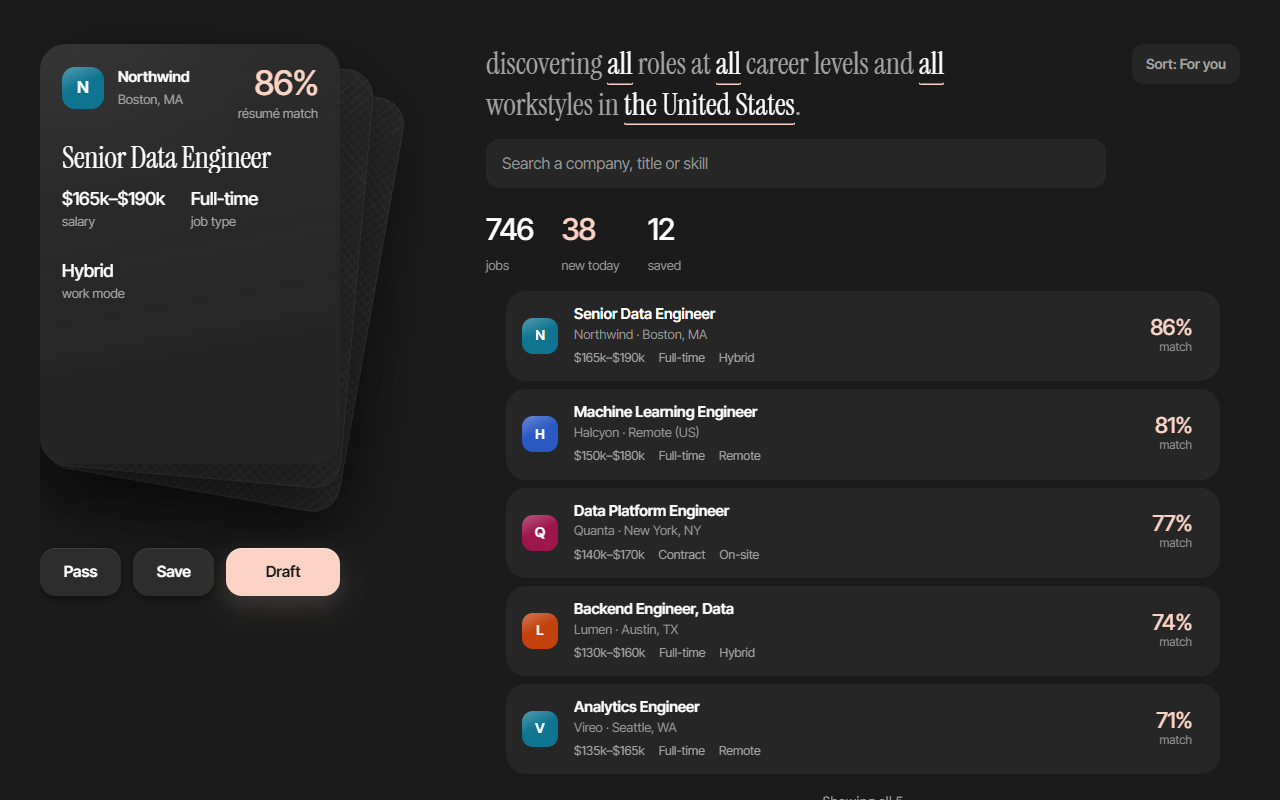
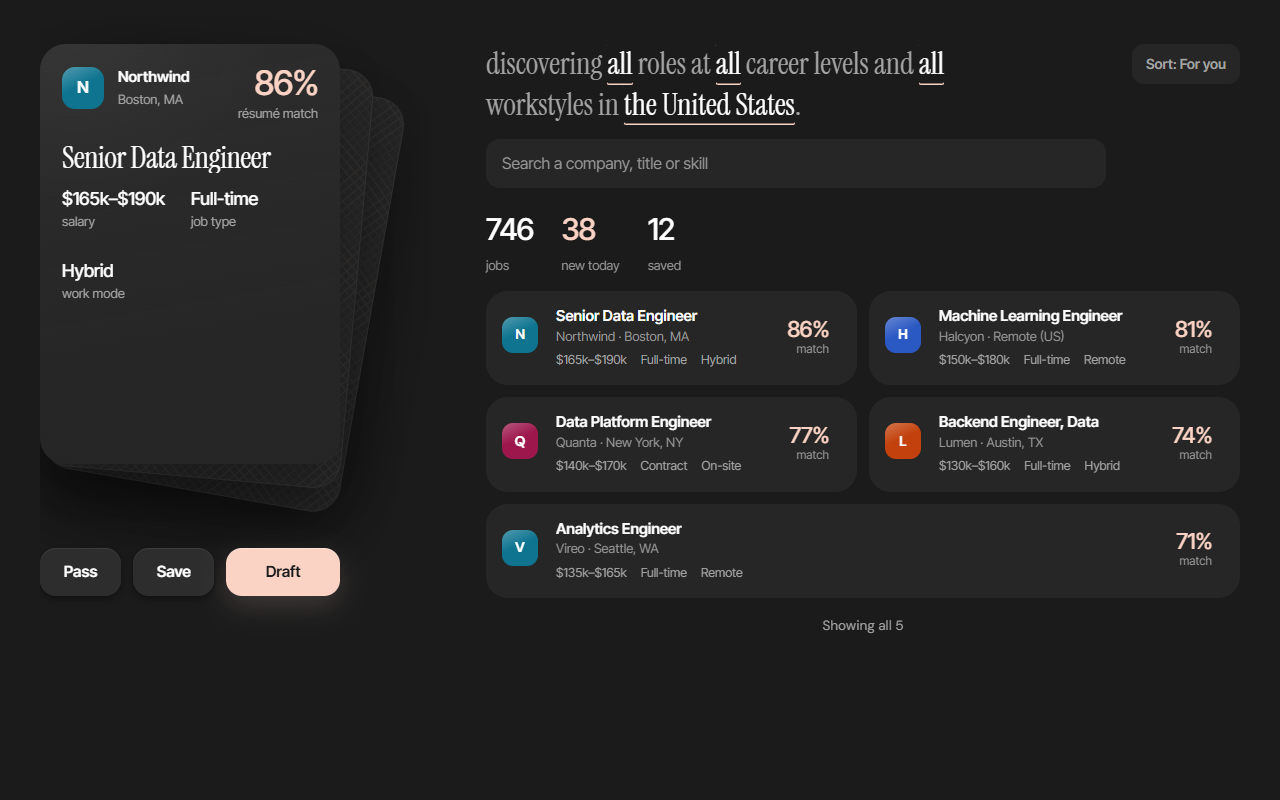
D152 (5) Home: postings are two columns of bubbles; old ATS square gone
D152 (5) Home: the postings are two columns of bubbles that make room for each other; the old ATS square is gone

home-sketch.html's .rows / .row / .bub, step 4 of D152.

- JobBubbleRows `columns` (2 by default): the postings in pairs, each pair one flex line. CSS only (JobBubble.css):
  a bubble flex 1 1 0; hovering the pair settles both at .75 and the hovered / focused one grows to 1.5 — its
  neighbour gives way, the line's height unchanged (every line nowrap + ellipsis, as the sketch's are) — over .32s,
  reduced motion none. The sketch's bubble: corner 22, padding 16, a 42 px logo, 12 px gaps, pairs 12 apart. One column
  on a phone, and while a posting is open beside the list (JobsPanel passes columns={beside ? 1 : 2}).
- The board's page column is Home's right column: .jb-board drops its own 1240 / 20 px gutters.
- ⛔ The rail's green "86 ats" square is removed from every bubble (D152 (5): "the old green ATS box leaves the
  bubbles") — the match on the right is the one number; the rail is Save · Draft (the sketch's ☆ · /d). An unscored
  row's way into its report is the opened posting's match box (JobDetailPanel → selectedJobMeta.onAts). BarMark, the
  band label and the bubble's onAts are gone with it.

Measured in Chrome (fidelityShots --styles home, the first pair, its first bubble focused): 1280 — 371 | 371 at
rest, 439 | 303 focused, both 94 px tall before and after; the options visible; no .jb__sq--ats anywhere; 390 — the
[…]

diff --git a/client/src/components/JobBubble.jsx b/client/src/components/JobBubble.jsx
@@ -19,7 +19,7 @@ import CompanyLogo from "./CompanyLogo.jsx";
 import CompanyViewModal from "./CompanyViewModal.jsx";
 import { jobDetailHref } from "../lib/jobUrl.js";
 import CompanyLink from "./CompanyLink.jsx";
-import { atsBandFor, atsBandLabel, ATS_NUMBER_SHOWN, ATS_NUMBER_NOTE } from "../../../shared/atsBands.js";
+import { ATS_NUMBER_SHOWN } from "../../../shared/atsBands.js";
 import { salaryLabel, workstyleOf } from "../../../shared/postingFacts.js";
 import { ghostLine } from "../../../shared/ghostScore.js";
 import { DraftMark } from "./DraftMark.jsx";
@@ -29,16 +29,6 @@ import "./JobBubble.css";
 
 // D71: the shared label.
 const salary = salaryLabel;
-
-function BarMark() {
-  return (
-    <svg width="20" height="16" viewBox="0 0 20 16" aria-hidden="true" focusable="false">
-      <rect x="1" y="9" width="4" height="6" rx="1.2" fill="currentColor" opacity=".45" />
-      <rect x="8" y="5" width="4" height="10" rx="1.2" fill="currentColor" opacity=".7" />
-      <rect x="15" y="1" width="4" height="14" rx="1.2" fill="currentColor" />
-    </svg>
-  );
-}
 
 function StarMark({ filled }) {
   return (
@@ -50,14 +40,12 @@ function StarMark({ filled }) {
 }
 
 export default function JobBubble({ job, score = null, selected = false, saved = false, drafted = false, drafting = false, resumeReady = false,
-                                    onOpen, onAts, onSave, onDraft, onViewDraft = null, draftBlocked = null,
+                                    onOpen, onSave, onDraft, onViewDraft = null, draftBlocked = null,
                                     onExplainDraft = null, draftSlots = null }) {
   const [companyView, setCompanyView] = useState(false);
   const draft = draftButtonState({ drafted, drafting, block: draftBlocked, canView: !!onViewDraft, slots: draftSlots });
   const id = job.jobId || job.id;
   const applyHref = job.applyUrl || job.url;
-  const band = atsBandFor(score);
-  const bandLabel = atsBandLabel(band).label;
   const showNumber = ATS_NUMBER_SHOWN && Number.isFinite(score);
   // ⭐ D137: "Likely not hiring" takes the status slot (no extra label, A109); its reasons are the meta line's title.
   const status = job.heldOutsideUs ? "Outside the US" : job.isActive === false ? "No longer listed" : job.ghost?.level >= 2 ? "Likely not hiring" : null;
@@ -107,15 +95,10 @@ export default function JobBubble({ job, score = null, selected = false, saved =
         {showNumber ? <><b>{score}%</b><span>match</span></> : null}
       </div>
 
-      {/* The rail (ATS · Save · Draft) stays — revealed on hover / focus, always on touch (D1) — so the row's quick
-          decisions keep working; at rest the row is the sketch's. */}
+      {/* The rail (Save · Draft) — revealed on hover / focus, always on touch (D1) — so the row's quick decisions keep
+          working; at rest the row is the sketch's. ⛔ D152 (5): the old "86 ats" square is gone from every bubble — the
+          match on the right says the same number; the match itself opens in the posting (D152 (8)). */}
       <div className="jb__rail">
-        <button type="button" className="jb__sq jb__sq--ats" data-score={showNumber ? score : undefined}
-          onClick={stop(onAts)}
-          aria-label={showNumber ? `ATS report — ${score}, ${bandLabel}. ${ATS_NUMBER_NOTE}` : `ATS report — ${bandLabel}`}
-          title={showNumber ? `ATS match ${score} · ${bandLabel} — ${ATS_NUMBER_NOTE}. Open the report.` : `${bandLabel} — open the ATS report`}>
-          {showNumber ? (<><span className="jb__ats-n">{score}</span><span className="jb__ats-cap">ats</span></>) : <BarMark />}
-        </button>
         <button type="button" className="jb__sq jb__sq--save" aria-pressed={saved} onClick={stop(saved ? null : onSave)}
           aria-label={saved ? "Saved" : "Save"} title={saved ? "Saved" : "Save"}>
           <StarMark filled={saved} />
@@ -180,6 +163,20 @@ export function JobBoardColumns({ beside = false, sideRef = null, children }) {
   );
 }
 
-export function JobBubbleRows({ jobs, children }) {
-  return <div className="jb-rows" data-columns={1}>{jobs.map(children)}</div>;
+// ⭐ D152 (5) (owner 11-04: "two bubbles, two columns of job postings that resize to accommodate the others dynamically when
+// hovering above them, and it shows the options"): home-sketch.html's `.rows` / `.row` — the postings in PAIRS, each pair
+// one line; a hovered or focused bubble grows (1.5) and its neighbour gives way (.75), the line's height unchanged; its
+// options (☆ Save · /d Draft) open on hover / focus, always on touch. One column while a posting is open beside the list,
+// and on a phone (JobBubble.css). The pairs are laid out by CSS flex alone — nothing measured.
+export function JobBubbleRows({ jobs, children, columns = 2 }) {
+  if (columns !== 2) return <div className="jb-rows" data-columns={1}>{jobs.map(children)}</div>;
+  const pairs = [];
+  for (let i = 0; i < jobs.length; i += 2) pairs.push(jobs.slice(i, i + 2));
+  return (
+    <div className="jb-rows" data-columns={2}>
+      {pairs.map((pair, p) => (
+        <div className="jb-pair" key={p} data-jb-pair="">{pair.map((job, k) => children(job, p * 2 + k))}</div>
+      ))}
+    </div>
+  );
 }

diff --git a/test/jobBubbleD1.test.js b/test/jobBubbleD1.test.js
@@ -50,15 +50,16 @@ test("⛔ NO BAND AND NO NUMBER on the card body; the ATS button carries the num
   assert.doesNotMatch(body, /score|band/i, "fit shown in the card's text");
   assert.match(jsx, /\{showNumber \? <><b>\{score\}%<\/b><span>match<\/span><\/> : null\}/, "no score is no number — never a zero");
   assert.match(jsx, /const showNumber = ATS_NUMBER_SHOWN && Number\.isFinite\(score\);/);
-  // No score is the bar mark — never a zero.
-  assert.match(jsx, /\{showNumber \? \(<><span className="jb__ats-n">\{score\}<\/span><span className="jb__ats-cap">ats<\/span><\/>\) : <BarMark \/>\}/);
+  // ⭐ D152 (5), changed on purpose: no ATS button on the card any more — the match on the right is the one number.
+  assert.doesNotMatch(jsx, /jb__sq--ats|jb__ats-n|BarMark/);
   const bands = read("shared/atsBands.js");
   // ⭐ D50 (owner, 10-07): ON, provisional — the box's tooltip carries the note.
   assert.match(bands, /export const ATS_NUMBER_SHOWN = true;/, "D50 turned the number on");
-  assert.match(jsx, /\$\{ATS_NUMBER_NOTE\}\. Open the report\./);
+  // (the number's note now travels with the report itself — shared/atsReportElement.js, d50AtsNumberShown)
 });
 
-test("the rail: three 52px squares, zero width until hover / focus-within, one motion; always shown on touch", () => {
+// ⭐ D152 (5), changed on purpose: TWO squares (Save · Draft) — the ATS square left the bubbles (home-sketch.html's ☆ · /d).
+test("the rail: two 52px squares, zero width until hover / focus-within, one motion; always shown on touch", () => {
   assert.match(css, /\.jb__sq \{\n  width: 52px; height: 52px;/);
   assert.match(css, /max-width: 0; opacity: 0; margin-left: 0;/);
   // T25: visibility rides the reveal, so the collapsed squares are out of the pointer's and the keyboard's reach.
@@ -67,7 +68,7 @@ test("the rail: three 52px squares, zero width until hover / focus-within, one m
   assert.match(css, /@media \(hover: none\) \{\n  \.jb__rail \{ max-width: 196px; opacity: 1; margin-left: 4px; visibility: visible; \}/);
   // ⛔ GENERATE and APPLY are off the card.
   const rail = jsx.slice(at(jsx, '<div className="jb__rail">', 0, "rail"), at(jsx, "{companyView &&", 0, "end"));
-  assert.equal((rail.match(/<button /g) || []).length, 3);
+  assert.equal((rail.match(/<button /g) || []).length, 2);
   assert.doesNotMatch(rail, /Generate|onGenerate|onVisit|↗/);
   // D6: the mark is DraftMark.jsx — the one implementation the top bar's Draft tab renders too.
   assert.match(rail, />\s*<DraftMark \/>\s*<\/button>/, "Draft is the mark");
@@ -95,7 +96,8 @@ test("⛔ the logo face is SELF-HOSTED — no third-party font request", () => {
 });
 
 test("the board renders bubbles in rows; the Database panel keeps JobCard", () => {
-  assert.match(panel, /<JobBubbleRows jobs=\{jobs\}>/);
+  // ⭐ D152 (5), changed on purpose: two columns (pairs), one beside an open posting.
+  assert.match(panel, /<JobBubbleRows jobs=\{jobs\} columns=\{beside \? 1 : 2\}>/);
   assert.doesNotMatch(panel, /<JobCard\b/);
   assert.match(read("client/src/panels/DatabasePanel.jsx"), /<JobCard/);
   // D149 (11-03): one column — see the first test.

diff --git a/client/src/components/JobBubble.css b/client/src/components/JobBubble.css
@@ -101,9 +101,7 @@ a.jb__company:hover, a.jb__company:focus-visible { text-decoration: underline; }
 .jb__sq:disabled { cursor: default; }
 
 /* ATS — the score when the number is shown (A75/A76), green on its quiet ground; otherwise the bar mark. */
-.jb__sq--ats[data-score] { background: var(--c-success-quiet); color: var(--c-success); }
-.jb__ats-n   { font-size: 17px; font-weight: 800; line-height: 1; }
-.jb__ats-cap { font-size: 9px; font-weight: 700; letter-spacing: .06em; text-transform: lowercase; }
+/* ⛔ D152 (5): the green "ats" square is gone from the rail — the match on the right is the one number. */
 
 .jb__sq--save[aria-pressed="true"] { color: var(--c-accent-ink); }
 
@@ -175,4 +173,28 @@ a.jb__company:hover, a.jb__company:focus-visible { text-decoration: underline; }
   .jb__text { flex: 1 1 0; }
   /* The always-shown rail (touch) on its own line under the row, at its right — never over the text. */
   .jb .jb__rail, .jb:hover .jb__rail, .jb:focus-within .jb__rail { max-width: none; flex-basis: 100%; justify-content: flex-end; margin-left: 0; }
+}
+
+/* ── ⭐ D152 (5) · HOME: TWO COLUMNS OF BUBBLES THAT MAKE ROOM FOR EACH OTHER — home-sketch.html's .rows / .row / .bub ─────
+ * The board is Home's right column now, so its page column is the column itself (no 1240 / 20px gutters of its own).
+ * Pairs 12px apart, each pair one flex line: a bubble flex 1 1 0; hovering the pair settles both at .75 and the hovered
+ * (or focused) one grows to 1.5 — its neighbour gives way, the line's height unchanged — over .32s (reduced motion:
+ * none). The sketch's bubble: the card, corner 22, padding 16, a 42 px logo column, 12px gaps. One column on a phone
+ * (the options always shown there, D1) and while a posting is open beside the list (JobsPanel passes columns 1). */
+.jb-board { max-width: none; padding: 0; }
+.jb-rows[data-columns="2"] { display: flex; flex-direction: column; gap: 12px; }
+.jb-pair { display: flex; gap: 12px; }
+.jb-pair .jb { flex: 1 1 0; min-width: 0; border-radius: 22px; padding: 16px; gap: 12px;
+  transition: flex-grow .32s cubic-bezier(.2, .9, .3, 1), background .2s; }
+.jb-pair:hover .jb { flex-grow: .75; }
+.jb-pair .jb:hover, .jb-pair .jb:focus-within { flex-grow: 1.5; background: var(--c-surface-tint); }
+.jb-pair .jb__logo { width: 42px; height: 42px; }
+/* Every line one line (the sketch's .bt b / span / i: nowrap, ellipsis), so giving way never changes the line's height. */
+.jb-pair .jb__title { white-space: nowrap; overflow: hidden; text-overflow: ellipsis; }
+.jb-pair .jb__meta { flex-wrap: nowrap; overflow: hidden; white-space: nowrap; }
+.jb-pair .jb__meta i { flex: none; }
+@media (prefers-reduced-motion: reduce) { .jb-pair .jb { transition: none; } }
+@media (max-width: 700px) {
+  .jb-pair { flex-direction: column; }
+  .jb-pair:hover .jb, .jb-pair .jb:hover, .jb-pair .jb:focus-within { flex-grow: 1; }
 }

diff --git a/test/d152Home.test.js b/test/d152Home.test.js
@@ -91,6 +91,28 @@ test("d152DockLeftWithLogo / d153DockPushes / d152DockSlidesFromLeftEdge (real C
     assert.equal(acts.width, card.width, `${size}: the buttons as wide as the card`);
   }
   assert.deepEqual([out.desktop.deck.card.width, out.desktop.deck.card.bottom - out.desktop.deck.card.top], [300, 420]);
+  // ⭐ D152 (5): two columns of bubbles that make room for each other; no old ATS square on any bubble.
+  for (const [size, d] of Object.entries(out)) {
+    assert.equal(d.pairs.atsSquare, false, `${size}: d152NoOldAtsBox`);
+    assert.equal(d.pairs.perPair, 2, `${size}: the postings in pairs`);
+    assert.equal(d.pairs.options, "visible", `${size}: d152HoverShowsOptions — a hovered / focused bubble shows its options`);
+    assert.deepEqual(d.pairs.focusH, d.pairs.restH, `${size}: giving way never changes the line's height`);
+  }
+  const P = out.desktop.pairs;
+  assert.equal(P.restW[0], P.restW[1], "d152TwoColumnResizingBubbles: equal at rest");
+  assert.ok(P.focusW[0] > P.restW[0] && P.focusW[1] < P.restW[1], `the focused bubble grows and its neighbour gives way (${P.focusW})`);
+  assert.ok(Math.abs(P.focusW[0] + P.focusW[1] - P.restW[0] - P.restW[1]) <= 1, "within the same line");
+  assert.equal(out.phone.pairs.restW[0], out.phone.pairs.focusW[0], "a phone stacks the pair — nothing to give way to");
+});
+
+test("d152 (5) · the bubbles' source: pairs from JobBubbleRows, one column beside an open posting, no ATS square", () => {
+  const BUB = read("client/src/components/JobBubble.jsx");
+  const PANEL = read("client/src/panels/JobsPanel.jsx");
+  const CSSB = read("client/src/components/JobBubble.css");
+  assert.match(BUB, /export function JobBubbleRows\(\{ jobs, children, columns = 2 \}\)/);
+  assert.doesNotMatch(BUB, /jb__sq--ats|onAts/, "the old ATS square and its handler are gone");
+  assert.match(PANEL, /<JobBubbleRows jobs=\{jobs\} columns=\{beside \? 1 : 2\}>/);
+  assert.match(CSSB, /\.jb-pair:hover \.jb \{ flex-grow: \.75; \}\n\.jb-pair \.jb:hover, \.jb-pair \.jb:focus-within \{ flex-grow: 1\.5;/);
 });
 
 test("d152 (2) · Home's card size and fan transform (pure)", async () => {

diff --git a/test/fidelityFullHouse.test.js b/test/fidelityFullHouse.test.js
@@ -37,9 +37,14 @@ test("fidelity · Full House + the posting (fullhouse-declutter.html): page, hea
     assert.deepEqual(d.counts.map(c => [c.size, c.weight]), Array(3).fill(["30px", "500"]));
     assert.equal(d.counts[1].color, ACCENT, `${size}: "new today" in the accent`);
     // The rows.
-    assert.deepEqual([d.row.bg, d.row.radius, d.row.border, d.row.shadow, d.row.padding], [CARD, "20px", "0px", "none", "14px 16px"],
-      `${size}: a row is the card, corner 20, no border, no shadow`);
-    assert.equal(d.row.gap, 8, `${size}: rows 8px apart`);
+    // ⭐ D152 (5), changed on purpose: where the list is two columns (a phone here — its posting is the screen, not beside
+    // the list) a row is Home's bubble, corner 22, padding 16; beside an open posting (the computer) the one column keeps
+    // the row's 20 / 14 16.
+    const bubble = size === "phone";
+    assert.deepEqual([d.row.bg, d.row.radius, d.row.border, d.row.shadow, d.row.padding],
+      [CARD, bubble ? "22px" : "20px", "0px", "none", bubble ? "16px" : "14px 16px"],
+      `${size}: a row is the card, no border, no shadow`);
+    assert.equal(d.row.gap, bubble ? 12 : 8, `${size}: rows 8px apart (Home's pairs 12, D152 (5))`);
     assert.match(d.row.outline, /solid rgb\(251, 211, 196\)$/, `${size}: the open row is outlined in the accent`);
     assert.match(d.row.title.family, UI); assert.deepEqual([d.row.title.size, d.row.title.weight, d.row.title.color], ["15px", "600", INK]);
     assert.deepEqual([d.row.sub.size], ["13px"]); assert.deepEqual([d.row.meta.size, d.row.meta.color], ["12.5px", BODY]);

diff --git a/client/src/panels/JobsPanel.jsx b/client/src/panels/JobsPanel.jsx
@@ -4361,7 +4361,8 @@ function JobsColumn({ jobs, scraping, scrapeError, onClearScrapeError,
               hover / focus-within, and is always shown on touch. components/JobBubble.jsx carries the spec.
               Generate and the posting link are off the card (D1): Apply is the company name (A63), and
               generating lives on the job's detail panel. */}
-          <JobBubbleRows jobs={jobs}>
+          {/* ⭐ D152 (5): two columns of resizing bubbles; one while a posting is open beside the list. */}
+          <JobBubbleRows jobs={jobs} columns={beside ? 1 : 2}>
           {(job) => {
             const key = job.jobId, g = generated[key];
             // Without a detail panel to select into: a generated résumé opens in its sandbox, else the posting.
@@ -4384,7 +4385,6 @@ function JobsColumn({ jobs, scraping, scrapeError, onClearScrapeError,
                 onOpen={open}
                 // ⛔ CC5 · opening with an EMPTY payload is the working case: ATSPanel scores the posting
                 // against this caller's résumé on demand when it is handed no report.
-                onAts={() => openAtsPanel(buildAtsPayload(job, g))}
                 // A53: the card's decisions are the deck's — Save and Draft SET; Pass is on the detail panel.
                 onSave={() => decideJob?.(job, DECISIONS.SAVED)}
                 onDraft={() => decideJob?.(job, DECISIONS.DRAFTED)}

diff --git a/test/d50AtsNumberShown.test.js b/test/d50AtsNumberShown.test.js
@@ -19,8 +19,10 @@ test("D50 · the number is on, and the provisional note exists once", () => {
 test("D50 · the board card's square and the ATS card show it — beside the note — and only for a real score", () => {
   const bubble = read("client/src/components/JobBubble.jsx");
   assert.match(bubble, /const showNumber = ATS_NUMBER_SHOWN && Number\.isFinite\(score\);/, "no score → no digit");
-  assert.match(bubble, /\{showNumber \? \(<><span className="jb__ats-n">\{score\}<\/span>[\s\S]*?: <BarMark \/>\}/, "null is the bar mark, never a 0");
-  assert.match(bubble, /title=\{showNumber \? `ATS match \$\{score\} · \$\{bandLabel\} — \$\{ATS_NUMBER_NOTE\}\. Open the report\.`/);
+  // ⭐ D152 (5), changed on purpose: the board card's ATS square is gone — its number is the match on the right (.jb__mt),
+  // drawn only for a real score (no score → nothing, never a 0); the note travels with the report (below).
+  assert.match(bubble, /\{showNumber \? <><b>\{score\}%<\/b><span>match<\/span><\/> : null\}/, "no score → nothing, never a 0");
+  assert.doesNotMatch(bubble, /jb__ats-n|BarMark/);
   // T9: the ATS card is the one shared component (shared/atsReportElement.js) — the web app and the extension draw it.
   const card = read("shared/atsReportElement.js");
   // The band, the count and the number stay together in the card's head; the note follows them.

diff --git a/test/atsScoreIsPerProfile.test.js b/test/atsScoreIsPerProfile.test.js
@@ -164,8 +164,12 @@ test("an unscored row still offers a way into its ATS report", () => {
   assert.doesNotMatch(slot, /atsBandFor|atsBandLabel/,
     "the neutral control may not consult the band vocabulary — there is no band to report");
 
-  // Both call sites go through it, or the two rows of one card disagree about when it appears.
-  assert.equal((JOBS_PANEL.match(/onAts=\{\(\) => openAtsPanel\(buildAtsPayload\(job, g\)\)\}/g) || []).length, 1);
+  // ⭐ D152 (5), changed on purpose (11-04): the board's bubbles carry no ATS square any more ("the old green ATS box leaves
+  // the bubbles") — an unscored row's way into its report is the opened posting's match box, whose handler is not gated
+  // on a score (JobDetailPanel's onOpen → selectedJobMeta.onAts).
+  assert.equal((JOBS_PANEL.match(/onAts=\{\(\) => openAtsPanel\(buildAtsPayload\(job, g\)\)\}/g) || []).length, 0);
+  assert.match(JOBS_PANEL, /onAts: \(\) => openAtsPanel\(buildAtsPayload\(selectedJob, g2\)\),/);
+  assert.match(fs.readFileSync("client/src/components/JobDetailPanel.jsx", "utf8"), /onOpen=\{\(\) => selectedJobMeta\?\.onAts\?\.\(\)\}/);
   noLiveMatch(JOBS_PANEL, /if \(g\?\.atsReport \|\| g\?\.atsScore != null/,
     "the handler may not require the report it exists to go and fetch");
   assert.equal((JOB_CARD.match(/<AtsSlot score=/g) || []).length, 2);

diff --git a/test/boardListingLayout.test.js b/test/boardListingLayout.test.js
@@ -114,7 +114,8 @@ test("D1 (10-03): the listings are bubble ROWS of 2/3/4 — the two-column TileG
   // D149 (11-03) changed this on purpose: the board also takes the sketch's page columns (JobBoardColumns) from the card's
   // module, and the rows are ONE column now (jobBubbleD1) — the TileGrid stays superseded.
   assert.match(jobsPanel, /import JobBubble, \{ JobBubbleRows(, JobBubbleSkeleton)?(, JobBoardColumns)? \} from "\.\.\/components\/JobBubble\.jsx";/);
-  assert.match(jobsPanel, /<JobBubbleRows jobs=\{jobs\}>/);
+  // ⭐ D152 (5), changed on purpose: two columns of resizing bubbles again (home-sketch.html), one beside an open posting.
+  assert.match(jobsPanel, /<JobBubbleRows jobs=\{jobs\} columns=\{beside \? 1 : 2\}>/);
   assert.doesNotMatch(jobsPanel, /<TileGrid/);
 });
 
